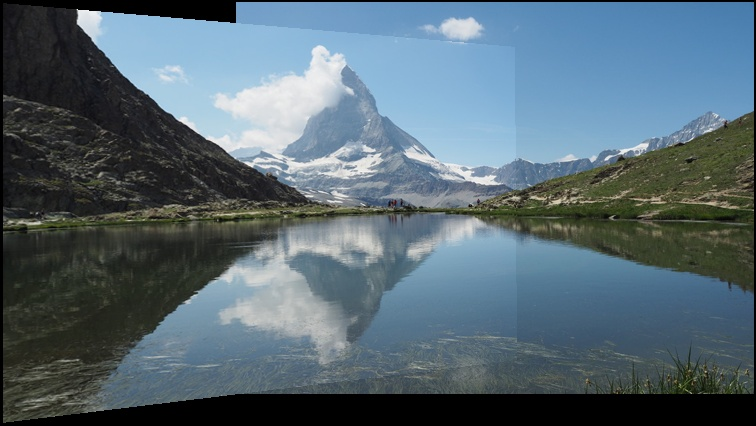
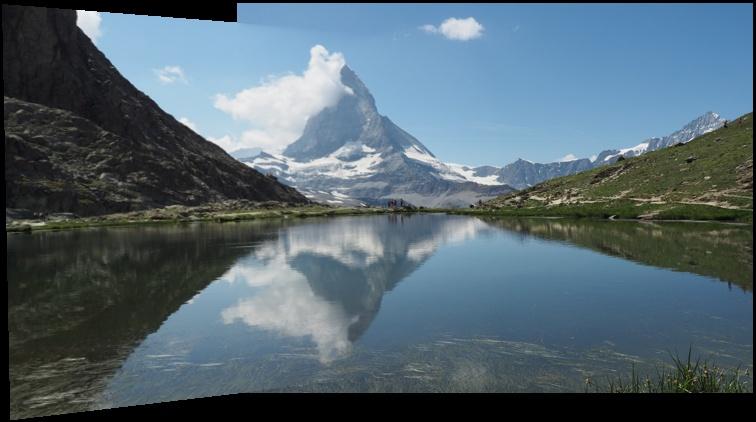
add linear blend

diff --git a/stitching/image_stitching.py b/stitching/image_stitching.py
@@ -5,7 +5,7 @@ from vggt.models.vggt import VGGT
 from vggt.utils.load_fn import load_and_preprocess_images
 from vggt.utils.visual_track import visualize_tracks_on_images
 from vggt.utils.keypoint import transform_keypoints
-from vggt.utils.stitching import linearBlending
+from vggt.utils.stitching import single_weights_matrix
 import cv2
 os.environ["CUDA_VISIBLE_DEVICES"] = "1,2,3" 
 
@@ -105,10 +105,10 @@ with torch.no_grad():
         H_list = []
         for i in range(len(full_path_image_names)):
             current_points = tracked_pts[i]
-            H, num = cv2.findHomography(current_points, ref_points, cv2.RANSAC, ransacReprojThreshold=5.0)
+            H, num = cv2.findHomography(current_points, ref_points, cv2.RANSAC, ransacReprojThreshold=1.0)
             H_list.append(H)
 
-        print(f"✅成功匹配点个数: {np.sum(num)}")
+        print(f"✅match points: {np.sum(num)}")
 
         min_x, min_y = 0, 0
         max_x, max_y = ref_w, ref_h
@@ -127,77 +127,40 @@ with torch.no_grad():
         new_height = max_y - min_y
         offset_x = -min_x
         offset_y = -min_y
-
-        stitched_image = np.zeros((new_height, new_width, 3), dtype=np.uint8)
+        
+        stitched_image = np.zeros((new_height, new_width, 3), dtype=np.float32)
+        weight_sum = np.zeros((new_height, new_width), dtype=np.float32)
 
         H_base = H_list[middle_index]
         T_base = np.array([[1, 0, offset_x], [0, 1, offset_y], [0, 0, 1]], dtype=np.float32)
         Homo_base_final = T_base @ H_base
 
-        base_image = processed_images_for_cv2[middle_index]
-        warped_base_image = cv2.warpPerspective(base_image, Homo_base_final, (new_width, new_height))
-
-        stitched_image = warped_base_image
-
-        for i in range(0, middle_index):
-            current_image = processed_images_for_cv2[i]
+        for i in range(len(full_path_image_names)):
+            img = processed_images_for_cv2[i].astype(np.float32)
             H = H_list[i]
             
-            T = np.array([[1, 0, offset_x], [0, 1, offset_y], [0, 0, 1]], dtype=np.float32)
-            Homo_final = T @ H
-
-            warped_image = cv2.warpPerspective(
-                current_image,
-                Homo_final,
-                (new_width, new_height),
-                flags=cv2.INTER_CUBIC,
-            )
-            h, w = current_image.shape[:2]  
-
-            original_corners = np.float32([[0, 0], [w, 0], [w, h], [0, h]]).reshape(-1, 1, 2)
-            corner_trans = cv2.perspectiveTransform(original_corners, Homo_final)
-
-            mask = warped_image != 0
-            contour = corner_trans.reshape(1, 4, 2).astype(np.int32) 
-            print(contour)
-            boundary_mask = np.zeros((new_height, new_width), dtype=np.uint8)
-            cv2.drawContours(boundary_mask, contour, -1, color=1, thickness=2)
-            boundary_pixels = np.where(boundary_mask == 1) 
-            mask[boundary_pixels] = False
-
-            stitched_image[mask] = warped_image[mask]
+            h, w = img.shape[:2]
+            img_weights = single_weights_matrix((h, w))
             
-        for i in range(middle_index + 1, len(H_list)):
-            current_image = processed_images_for_cv2[i]
-            H = H_list[i]
-            
-            T = np.array([[1, 0, offset_x], [0, 1, offset_y], [0, 0, 1]], dtype=np.float32)
-            Homo_final = T @ H
-
-            warped_image = cv2.warpPerspective(
-                current_image,
-                Homo_final,
-                (new_width, new_height),
-                flags=cv2.INTER_CUBIC,
+            img_weights_3ch = np.repeat(
+                cv2.warpPerspective(img_weights, T_base @ H, (new_width, new_height))[:, :, np.newaxis],
+                3,
+                axis=2
             )
+            
+            warped_img = cv2.warpPerspective(img, T_base @ H, (new_width, new_height))
+            
+            stitched_image += warped_img * img_weights_3ch
+            weight_sum += img_weights_3ch[:, :, 0]
 
-            h, w = current_image.shape[:2]  
-            original_corners = np.float32([[0, 0], [w, 0], [w, h], [0, h]]).reshape(-1, 1, 2)
-            corner_trans = cv2.perspectiveTransform(original_corners, Homo_final)
+        weight_sum[weight_sum == 0] = 1e-8 
+        stitched_image = stitched_image / weight_sum[:, :, np.newaxis]
 
-            mask = warped_image != 0
-            contour = corner_trans.reshape(1, 4, 2).astype(np.int32)
-            print(contour)
-            boundary_mask = np.zeros((new_height, new_width), dtype=np.uint8)
-            cv2.drawContours(boundary_mask, contour, -1, color=1, thickness=2)
-            boundary_pixels = np.where(boundary_mask == 1)
-            mask[boundary_pixels] = False
-
-            stitched_image[mask] = warped_image[mask]
-
+        stitched_image = np.clip(stitched_image, 0, 255).astype(np.uint8)
+        
         cv2.imwrite(output, stitched_image)
         print(f"Stitched image saved to {output}")
-        
+
 visualize_tracks_on_images(
     images=images_vis,
     tracks=tracks,
@@ -208,4 +171,3 @@ visualize_tracks_on_images(
     cmap_name="hsv",
     frames_per_row=2,
 )
-

diff --git a/vggt/utils/stitching.py b/vggt/utils/stitching.py
@@ -1,58 +1,33 @@
-import cv2
 import numpy as np
 
-def linearBlending(imgs, mask, output1):
-       
-    img_left, img_right = imgs
-    (hl, wl) = img_left.shape[:2]
-    (hr, wr) = img_right.shape[:2]
-    img_left_mask = np.zeros((hr, wr), dtype=np.uint8)
-    img_right_mask = np.zeros((hr, wr), dtype=np.uint8)
-    img_left_1, img_right_1 = imgs
-       
-    # 找到img_left 和 img_right 的mask部分(即非0部分) 
-    for i in range(hl):
-        for j in range(wl):
-            if np.count_nonzero(img_left[i, j]) > 0:
-                img_left_mask[i, j] = 1
-        
-    for i in range(hr):
-        for j in range(wr):
-            if np.count_nonzero(img_right[i, j]) > 0:
-                img_right_mask[i, j] = 1
-        
-    # 找到两图重合的部分
-    overlap_mask = np.zeros((hr, wr), dtype=np.uint8)
-    for i in range(hr):
-        for j in range(wr):
-            if (np.count_nonzero(img_left_mask[i, j]) > 0 and np.count_nonzero(img_right_mask[i, j]) > 0):
-                overlap_mask[i, j] = 1
-        
-       
-    # 计算重叠区域的线性alpha值，即将色彩从 img_left 到 img_right 逐步过渡
-    alpha_mask = np.zeros((hr, wr)) # alpha value depend on left image
-    for i in range(hr): 
-        minIdx = maxIdx = -1
-        for j in range(wr):
-            if (overlap_mask[i, j] == 1 and minIdx == -1):
-                minIdx = j
-            if (overlap_mask[i, j] == 1):
-                maxIdx = j
-        
-        if (minIdx == maxIdx): # 融合区域过小
-            continue
-            
-        decrease_step = 1 / (maxIdx - minIdx)
-        for j in range(minIdx, maxIdx + 1):
-            alpha_mask[i, j] = 1 - (decrease_step * (j - minIdx))
-        
-    img_left[mask] = img_right[mask]
-    linearBlending_img = img_left
-    cv2.imwrite(output1, linearBlending_img)
-    # 线性混合
-    for i in range(hr):
-        for j in range(wr):
-            if ( np.count_nonzero(overlap_mask[i, j]) > 0):
-                linearBlending_img[i, j] = alpha_mask[i, j] * img_left_1[i, j] + (1 - alpha_mask[i, j]) * img_right_1[i, j]
-    
-    return linearBlending_img
+def single_weights_array(size: int) -> np.ndarray:
+    """
+    Create a 1D weights array.
+
+    Args:
+        size: Size of the array
+
+    Returns:
+        weights: 1D weights array
+    """
+    if size % 2 == 1:
+        return np.concatenate(
+            [np.linspace(0, 1, (size + 1) // 2), np.linspace(1, 0, (size + 1) // 2)[1:]]
+        )
+    else:
+        return np.concatenate([np.linspace(0, 1, size // 2), np.linspace(1, 0, size // 2)])
+
+def single_weights_matrix(shape: tuple[int]) -> np.ndarray:
+    """
+    Create a 2D weights matrix.
+
+    Args:
+        shape: Shape of the matrix
+
+    Returns:
+        weights: 2D weights matrix
+    """
+    return (
+        single_weights_array(shape[0])[:, np.newaxis]
+        @ single_weights_array(shape[1])[:, np.newaxis].T
+    )

diff --git a/README.md b/README.md
@@ -4,13 +4,13 @@ Repository for running the VGGT model to do image stitching task
 ![example](https://raw.githubusercontent.com/Ideal-111/vggt-image_stitching/main/vggt_track_vis/tracks_grid.png)
 ![example](https://raw.githubusercontent.com/Ideal-111/vggt-image_stitching/main/vggt_track_vis/frames_00_01_tracks.png)
 ## TODO
- - Add procession of the seaming
+ - Add procession of the seaming ✅
  - Add end-to-end image stitching method
  - Adapt vggt to mutimodal image stitching task
 ## Installation
 
 ### pip installation
-Same dependencies as VGGT([VGGT](https://github.com/facebookresearch/vggt)) installation
+Same dependencies as VGGT([VGGT](https://github.com/facebookresearch/vggt)) installation.
 
 ### Start
 First, use [ALIKED](https://github.com/Shiaoming/ALIKED) to get the key points and save as .pt files, and then you can use the examples as follows:
